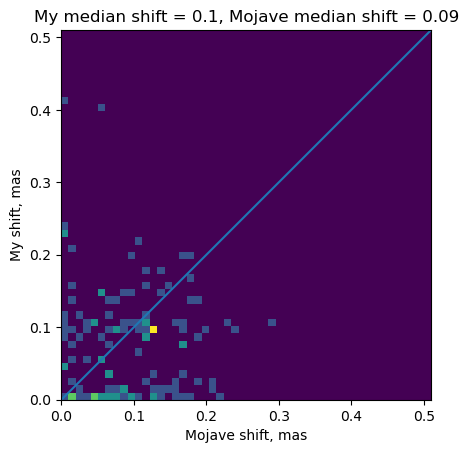
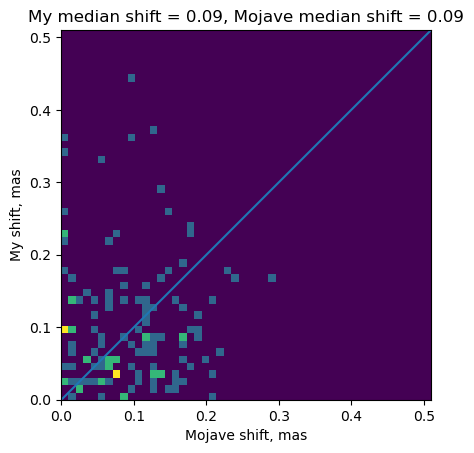
add subpixel shifts

diff --git a/main.py b/main.py
@@ -6,6 +6,8 @@ from skimage.registration import phase_cross_correlation
 import sys
 import os
 from tempfile import TemporaryDirectory
+from skimage.registration._masked_phase_cross_correlation import cross_correlate_masked
+from astropy.modeling import models, fitting
 sys.path.insert(0, '/home/rtodorov/jetpol/ve/vlbi_errors')
 from spydiff import (clean_difmap, find_nw_beam, create_clean_image_from_fits_file,
             create_difmap_file_from_single_component, filter_difmap_CC_model_by_r,
@@ -13,6 +15,8 @@ from spydiff import (clean_difmap, find_nw_beam, create_clean_image_from_fits_fi
 from uv_data import UVData
 from image import plot as iplot
 from utils import find_bbox, find_image_std
+sys.path.insert(0, '/home/rtodorov/alpha')
+from alpha_utils import rebase_CLEAN_model
 
 
 def load_data(sourse, date, freq):
@@ -217,6 +221,42 @@ def get_spec_ind(imgs, freq, npixels_beam):
     return spec_ind_map
 
 
+def registrate_images(image1, image2, mask1, mask2, fit_gaussian=True, n=9):
+    """
+    :param image1:
+        2d numpy array with image.
+    :param image2:
+        2d numpy array with image.
+    :param mask1:
+        Must be ``True`` at valid pixels.
+    :param mask2:
+        Must be ``True`` at valid pixels.
+    :param fit_gaussian: (optional)
+        Fit 2D Gaussian to the peak of the correlation matrix?
+        (default: ``True``)
+    :param n: (optional)
+        Half-width [pix] of the square, centered on the position of the maximum
+        correlation, where to fit 2D Gaussian. (default: ``9``)
+    :return:
+        A tuple of shifts [pixels] (DEC, RA).
+    """
+    corr_matrix = cross_correlate_masked(image1, image2, mask1, mask2)
+    max_pos = np.unravel_index(np.argmax(corr_matrix), corr_matrix.shape)
+
+    if fit_gaussian:
+        # Grab a part pf image around maximal correlation coefficient
+        sub = corr_matrix[max_pos[0]-n : max_pos[0]+n, max_pos[1]-n : max_pos[1]+n]
+        x, y = np.mgrid[:2*n, :2*n]
+        p_init = models.Gaussian2D(1, n, n, n/2, n/2, 0)
+        fit_p = fitting.LevMarLSQFitter()
+        p = fit_p(p_init, x, y, sub)
+        result = p.x_mean.value-n+1+max_pos[0]-image1.shape[0], p.y_mean.value-n+1+max_pos[1]-image2.shape[1]
+    else:
+        result = max_pos[0]-image1.shape[0]+1, max_pos[1]-image2.shape[1]+1
+
+    return result
+
+
 
 if __name__ == "__main__":
     # satting arguments
@@ -266,7 +306,19 @@ if __name__ == "__main__":
         beams = []
         beam = None
         create_individual_script(sourse, date, freqs, base_dir, deep_clean=deep_clean)
+
+        max_freq = np.max(freqs)
+        img, core, mask, beam = get_core_img_mask(load_data(sourse, date, max_freq), mapsize, [1], 
+                                                path_to_script=os.path.join(base_dir, 'scripts/script_clean_rms_{}.txt'.format(sourse)),
+                                                dump_json_result=False, base_dir=base_dir, beam=beam)
+        imgs.append(img)
+        cores.append(core)
+        masks.append(mask)
+        beams.append(beam)
+
         for freq in freqs:
+            if freq == max_freq:
+                continue
             img, core, mask, beam = get_core_img_mask(load_data(sourse, date, freq), mapsize, [1], 
                                                 path_to_script=os.path.join(base_dir, 'scripts/script_clean_rms_{}.txt'.format(sourse)),
                                                 dump_json_result=False, base_dir=base_dir, beam=beam)
@@ -277,9 +329,8 @@ if __name__ == "__main__":
         
         # correlate maps with the 15.4 GHz and shift if nesessary
         for i, (img, mask) in enumerate(zip(imgs, masks)):
-            print(masks[-1])
-            shift_arr = phase_cross_correlation(reference_image=imgs[-1], return_error=False, moving_image=img, reference_mask=masks[-1], moving_mask=mask, upsample_factor=10)
-            print(shift_arr)
+            # shift_arr = phase_cross_correlation(reference_image=imgs[-1], return_error=False, moving_image=img, reference_mask=masks[-1], moving_mask=mask, upsample_factor=10)
+            shift_arr =  registrate_images(imgs[0], img, masks[0], mask)
             img = np.roll(img, int(shift_arr[0]), axis=0)
             img = np.roll(img, int(shift_arr[1]), axis=1)
             img_shift_dict = {'dec':shift_arr[0]*mapsize[1], 'ra':-shift_arr[1]*mapsize[1]}
@@ -290,12 +341,12 @@ if __name__ == "__main__":
                                                                         +img_shift_dict[ax]-cores[-1][ax])
                     data_dict['img_shift_{}_{}'.format(ax, freqs[i]).replace('.', '')].append(img_shift_dict[ax])
 
-        beam = beams[-1]
+        beam = beams[0]
         npixels_beam = np.pi * beam[0] * beam[1] / (4 * np.log(2) * mapsize[1] ** 2)
         spec_ind_map = get_spec_ind(imgs, freqs, npixels_beam)
 
         # plot spectral index map
-        img_toplot = imgs[-1]
+        img_toplot = imgs[0]
         std = find_image_std(img_toplot, npixels_beam)
         blc, trc = find_bbox(img_toplot, level=5*std, min_maxintensity_mjyperbeam=20*std,
                             min_area_pix=2*npixels_beam, delta=10)
@@ -312,7 +363,7 @@ if __name__ == "__main__":
         plt.savefig(os.path.join(base_dir, 'index_maps/spec_ind_map_{}.png'.format(sourse)), bbox_inches='tight')
         plt.close()
 
-        iplot(contours=img_toplot, colors=masks[-1], vectors=None, vectors_values=None, x=x,
+        iplot(contours=img_toplot, colors=masks[0], vectors=None, vectors_values=None, x=x,
                 y=y, cmap='coolwarm', min_abs_level=3*std, colors_mask=colors_mask, beam=beam,
                 blc=blc, trc=trc, colorbar_label='$\\alpha$', show_beam=True)
         plt.savefig(os.path.join(base_dir, 'index_maps/core_map_{}.png'.format(sourse)), bbox_inches='tight')

diff --git a/supplementary.py b/supplementary.py
@@ -9,12 +9,12 @@ def process_mojave_shift_data(data_dir, save_dir, mapsize):
         lines = f.readlines()
     
     shifts = {'sourse':[],
-              'shift_dec_81':[],
-              'shift_ra_81':[],
-              'shift_dec_84':[],
-              'shift_ra_84':[],
-              'shift_dec_121':[],
-              'shift_ra_121':[]}
+              'core_shift_dec_81':[],
+              'core_shift_ra_81':[],
+              'core_shift_dec_84':[],
+              'core_shift_ra_84':[],
+              'core_shift_dec_121':[],
+              'core_shift_ra_121':[]}
     for line in lines:
         line = line.split()
         sourse = line[1]
@@ -22,23 +22,23 @@ def process_mojave_shift_data(data_dir, save_dir, mapsize):
         pa = float(line[3])
         shifts['sourse'].append(sourse)
         if line[4] != '-':
-            shifts['shift_dec_81'].append(float(line[5])*np.sin(float(line[4])+pa))
-            shifts['shift_ra_81'].append(float(line[5])*np.cos(float(line[4])+pa))
+            shifts['core_shift_dec_81'].append(float(line[5])*np.sin(float(line[4])+pa))
+            shifts['core_shift_ra_81'].append(float(line[5])*np.cos(float(line[4])+pa))
         else:
-            shifts['shift_dec_81'].append('-')
-            shifts['shift_ra_81'].append('-')
+            shifts['core_shift_dec_81'].append('-')
+            shifts['core_shift_ra_81'].append('-')
         if line[7] != '-':
-            shifts['shift_dec_84'].append(float(line[8])*np.sin(float(line[7])+pa))
-            shifts['shift_ra_84'].append(float(line[8])*np.cos(float(line[7])+pa))
+            shifts['core_shift_dec_84'].append(float(line[8])*np.sin(float(line[7])+pa))
+            shifts['core_shift_ra_84'].append(float(line[8])*np.cos(float(line[7])+pa))
         else:
-            shifts['shift_dec_84'].append('-')
-            shifts['shift_ra_84'].append('-')
+            shifts['core_shift_dec_84'].append('-')
+            shifts['core_shift_ra_84'].append('-')
         if line[10] != '-':
-            shifts['shift_dec_121'].append(float(line[11])*np.sin(float(line[10])+pa))
-            shifts['shift_ra_121'].append(float(line[11])*np.cos(float(line[10])+pa))
+            shifts['core_shift_dec_121'].append(float(line[11])*np.sin(float(line[10])+pa))
+            shifts['core_shift_ra_121'].append(float(line[11])*np.cos(float(line[10])+pa))
         else:
-            shifts['shift_dec_121'].append('-')
-            shifts['shift_ra_121'].append('-')
+            shifts['core_shift_dec_121'].append('-')
+            shifts['core_shift_ra_121'].append('-')
     data = pd.DataFrame(shifts)
     with open(os.path.join(save_dir, 'core_shifts_mojave_proc.txt'), 'w') as fo:
         fo.write(data.to_string())
@@ -55,9 +55,9 @@ def read_shift_data(data_file, data_dir):
         raise Exception("Incorrect data type!")
     
     for line in lines:
-        line = line.split()
-        if len(line) < 8:
+        if line == lines[0]:
             continue
+        line = line.split()
         shift_dict = {}
         for i, key in enumerate(dict_keys):
             if line[i+2] == '-':
@@ -110,12 +110,13 @@ def plot_shiftdata_diff(data_dict1, data_dict2, freqs, mapsize):
         plt.savefig('data_comp_{}.png'.format(freq), bbox_inches='tight')
         plt.close()
 
+
 if __name__ == "__main__":
     data_dir = '/home/rtodorov/maps-shifts'
     save_dir = data_dir
     mapsize = (1024, 0.1)
     freqs = [8.1, 8.4, 12.1]
-    my_data = read_shift_data('core_shifts.txt', data_dir)
+    my_data = read_shift_data('un_shift_data.txt', data_dir)
     mojave_data = read_shift_data('core_shifts_mojave_proc.txt', data_dir)
     plot_shiftdata_diff(my_data, mojave_data, freqs, mapsize)
     # process_mojave_shift_data(data_dir, save_dir, mapsize)
